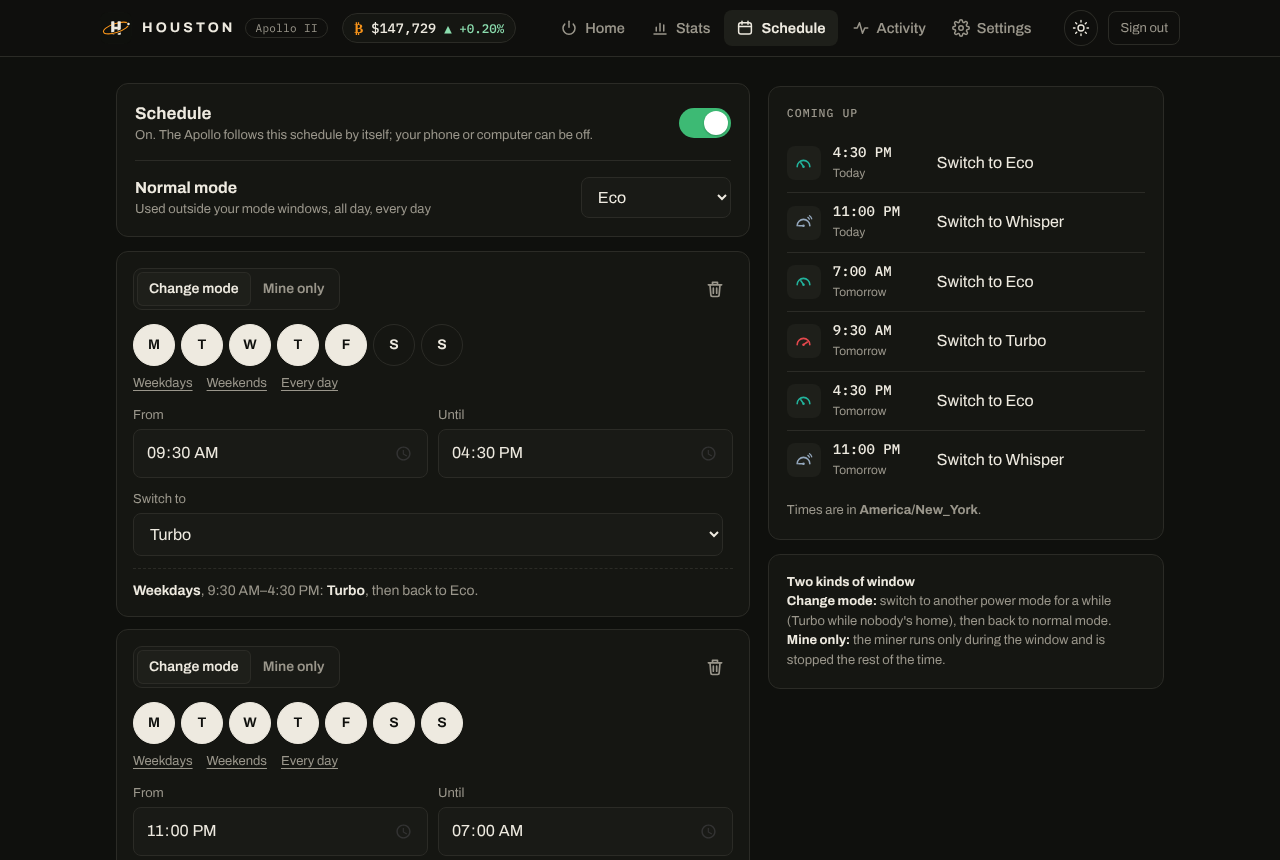
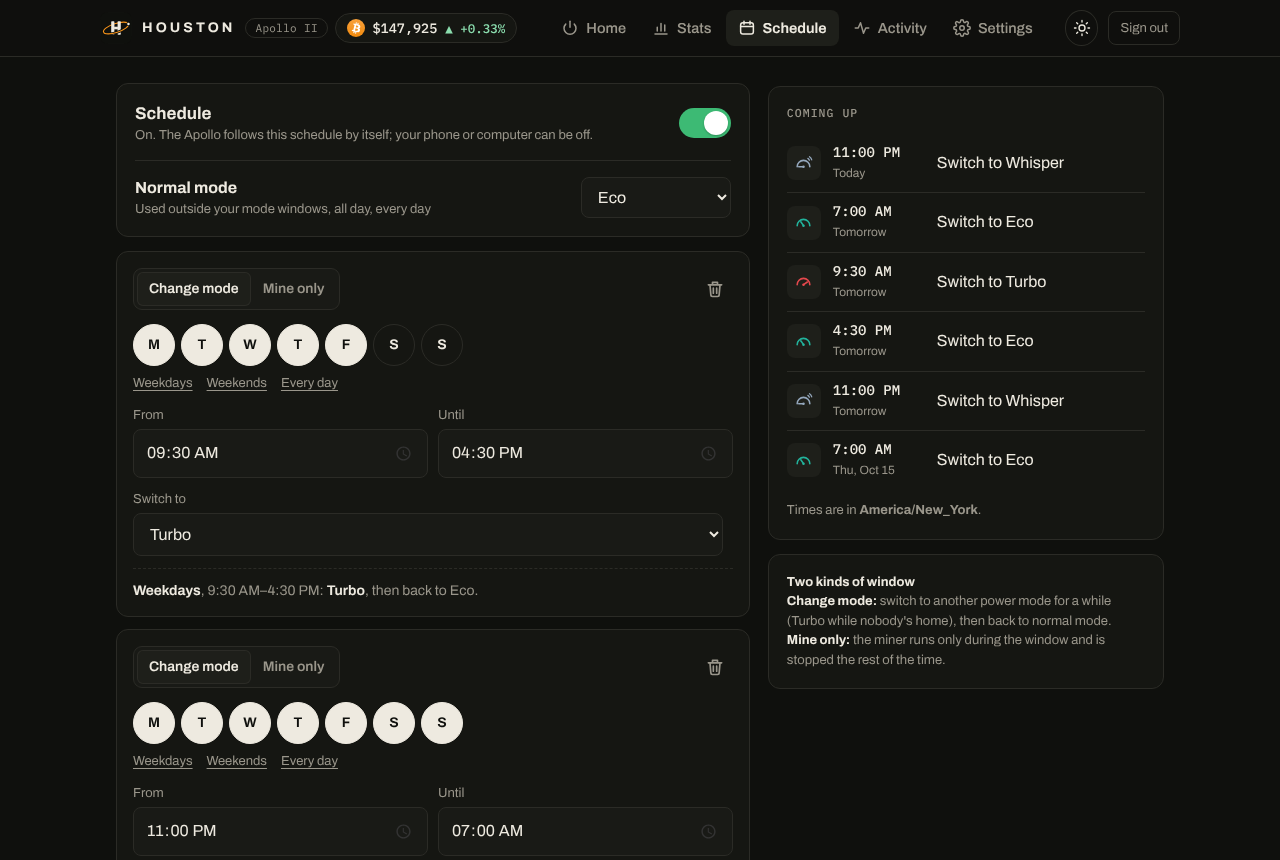
Home: cleaner price line, Power mode above next change, Whisper 'quietest'

diff --git a/houston/web/index.html b/houston/web/index.html
@@ -308,8 +308,8 @@
   /* ---------- bitcoin ticker (the only orange in the app) ---------- */
   .ticker { position: relative; overflow: hidden; display: grid; grid-template-columns: auto 1fr; gap: 2px 16px; align-items: center;
     background: var(--card); border: 1px solid var(--line); border-radius: var(--radius); padding: 14px 18px; margin-bottom: 14px; }
-  .tk-coin { width: 42px; height: 42px; border-radius: 50%; background: var(--btc); color: #fff; display: grid; place-items: center; grid-row: span 2; }
-  .tk-coin svg { width: 26px; height: 26px; }
+  .tk-coin { width: 46px; height: 46px; grid-row: span 2; }      /* the Bitcoin mark (public domain), centered on its coin */
+  .tk-coin svg { width: 100%; height: 100%; display: block; }
   .tk-top { display: flex; align-items: baseline; gap: 10px; flex-wrap: wrap; min-width: 0; }
   .tk-label { color: var(--muted); font: 500 11.5px var(--mono); letter-spacing: .09em; text-transform: uppercase; }
   .tk-price { font-size: 34px; font-weight: 650; font-stretch: 78%; letter-spacing: -.005em; line-height: 1.05; color: var(--btc-text); font-variant-numeric: tabular-nums; }
@@ -326,7 +326,8 @@
   }
   .hdr-price { display: none; align-items: center; gap: 8px; margin-left: 12px; padding: 5px 11px; border-radius: 999px; border: 1px solid var(--line);
     background: var(--card); font: 500 13.5px var(--mono); color: var(--text); cursor: pointer; white-space: nowrap; }
-  .hdr-price .b { color: var(--btc-text); font-weight: 700; }
+  .hdr-price .b { display: inline-flex; width: 18px; height: 18px; }
+  .hdr-price .b svg { width: 100%; height: 100%; }
   .hdr-price .chg { padding: 0; background: none; font-size: 12.5px; }
   @media (min-width: 1180px) { .hdr-price.on { display: inline-flex; } }
   @media (max-width: 600px) { .tk-spark, .tk-spark svg { height: 42px; } .tk-price { font-size: 30px; } }
@@ -552,7 +553,7 @@
   <!-- ======================= control ======================= -->
   <section id="view-control" class="view hidden" role="tabpanel" aria-label="Control">
     <div class="ticker hidden" id="ticker" aria-live="polite">
-      <div class="tk-coin" aria-hidden="true"><svg viewBox="0 0 24 24" fill="currentColor"><path d="M14.4 11.3c.9-.5 1.4-1.3 1.3-2.4-.2-1.6-1.6-2.2-3.4-2.3V4.4h-1.3v2.1h-1V4.4H8.7v2.1H6.3v1.4h1c.5 0 .7.2.7.6v6.9c0 .4-.2.6-.6.6h-1l-.2 1.5h2.4v2.1H10v-2.1h1v2.1h1.3v-2.1c2.3-.1 3.9-.8 4.1-2.9.1-1.6-.6-2.5-2-2.9zM10 8h1.6c.9 0 1.8.3 1.8 1.2 0 1-.9 1.3-1.8 1.3H10V8zm2 7.3h-2v-3.2h2c1.1 0 2 .4 2 1.6 0 1.2-.9 1.6-2 1.6z"/></svg></div>
+      <div class="tk-coin" aria-hidden="true"><svg viewBox="0 0 64 64" aria-hidden="true"><defs><linearGradient id="btcG" x1="0" y1="0" x2="0" y2="1"><stop offset="0" stop-color="#F9A13A"/><stop offset="1" stop-color="#F08A0E"/></linearGradient></defs><circle cx="32" cy="32" r="32" fill="url(#btcG)"/><path d="M46.11 27.441c.636-4.258-2.606-6.547-7.039-8.074l1.438-5.768-3.512-.875-1.4 5.616c-.922-.23-1.87-.447-2.812-.662l1.41-5.653-3.509-.875-1.439 5.766c-.764-.174-1.514-.346-2.242-.527l.004-.018-4.842-1.209-.934 3.75s2.605.597 2.55.634c1.422.355 1.68 1.296 1.636 2.042l-1.638 6.571c.098.025.225.061.365.117l-.37-.092-2.297 9.205c-.174.432-.615 1.08-1.609.834.035.051-2.552-.637-2.552-.637l-1.743 4.019 4.57 1.139c.85.213 1.683.436 2.502.646l-1.453 5.835 3.507.875 1.44-5.772c.957.26 1.887.5 2.797.726L27.504 50.8l3.511.875 1.453-5.823c5.987 1.133 10.49.676 12.384-4.739 1.527-4.36-.076-6.875-3.226-8.515 2.294-.529 4.022-2.038 4.483-5.155zM38.087 38.69c-1.086 4.36-8.426 2.004-10.807 1.412l1.928-7.729c2.38.594 10.011 1.77 8.88 6.317zm1.085-11.312c-.99 3.966-7.1 1.951-9.083 1.457l1.748-7.007c1.983.494 8.05 1.416 7.335 5.55z" fill="#fff" transform="translate(1.118 0.587)"/></svg></div>
       <div class="tk-top"><span class="tk-label">Bitcoin</span><span class="live off" id="tkLive"><i></i>Live</span><span class="chg flat" id="tkChg">–</span></div>
       <div><span class="tk-price" id="tkPrice">–</span> <div class="tk-meta" id="tkMeta">&nbsp;</div></div>
       <div class="tk-chart"><div class="tk-spark" id="tkSpark"></div>
@@ -591,33 +592,33 @@
           <span><span class="sub">Apollo software</span><b id="updCardText"></b></span>
           <svg class="chev" viewBox="0 0 24 24" fill="none" stroke="currentColor" stroke-width="2.2" stroke-linecap="round" aria-hidden="true"><path d="M9 6l6 6-6 6"/></svg>
         </button>
-        <button class="next hidden" id="nextCard" type="button">
-          <svg viewBox="0 0 24 24" fill="none" stroke="currentColor" stroke-width="2" stroke-linecap="round" aria-hidden="true"><rect x="3.5" y="5" width="17" height="15" rx="3"/><path d="M3.5 10h17M8 3v4M16 3v4"/></svg>
-          <span><span class="sub" id="nextLabel">Next scheduled change</span><b id="nextText"></b></span>
-          <svg class="chev" viewBox="0 0 24 24" fill="none" stroke="currentColor" stroke-width="2.2" stroke-linecap="round" aria-hidden="true"><path d="M9 6l6 6-6 6"/></svg>
-        </button>
+        <div class="card">
+          <h2>Power mode</h2>
+          <div class="modes" id="modes"></div>
+          <div class="custom-row hidden" id="customRow">
+            <div class="custom-head">
+              <svg viewBox="0 0 24 24" fill="none" stroke="currentColor" stroke-width="2" stroke-linecap="round" aria-hidden="true"><path d="M4 6h10M18 6h2M4 12h4M12 12h8M4 18h12"/><circle cx="16" cy="6" r="2"/><circle cx="10" cy="12" r="2"/><circle cx="18" cy="18" r="2"/></svg>
+              Custom target <b id="hrVal">12 TH/s</b>
+            </div>
+            <div class="custom-ctl">
+              <input type="range" id="hrRange" min="5" max="20" step="1" value="12" aria-label="Target hashrate in TH/s">
+              <button class="primary" type="button" id="hrApply">Set</button>
+            </div>
+            <div class="sub" style="margin-top:6px">The Apollo III tunes itself to hit this hashrate (5–20 TH/s).</div>
+          </div>
+          <p class="note" style="margin:12px 0 0">Changing mode restarts a running miner (about a minute). A stopped miner stays stopped and uses the new mode when it starts.</p>
+        </div>
         <div class="card hidden" id="fleetCard">
           <h2>Your Apollos</h2>
           <ul class="fleet" id="fleetList"></ul>
         </div>
       </div>
       <div>
-      <div class="card">
-        <h2>Power mode</h2>
-        <div class="modes" id="modes"></div>
-        <div class="custom-row hidden" id="customRow">
-          <div class="custom-head">
-            <svg viewBox="0 0 24 24" fill="none" stroke="currentColor" stroke-width="2" stroke-linecap="round" aria-hidden="true"><path d="M4 6h10M18 6h2M4 12h4M12 12h8M4 18h12"/><circle cx="16" cy="6" r="2"/><circle cx="10" cy="12" r="2"/><circle cx="18" cy="18" r="2"/></svg>
-            Custom target <b id="hrVal">12 TH/s</b>
-          </div>
-          <div class="custom-ctl">
-            <input type="range" id="hrRange" min="5" max="20" step="1" value="12" aria-label="Target hashrate in TH/s">
-            <button class="primary" type="button" id="hrApply">Set</button>
-          </div>
-          <div class="sub" style="margin-top:6px">The Apollo III tunes itself to hit this hashrate (5–20 TH/s).</div>
-        </div>
-        <p class="note" style="margin:12px 0 0">Changing mode restarts a running miner (about a minute). A stopped miner stays stopped and uses the new mode when it starts.</p>
-      </div>
+      <button class="next hidden" id="nextCard" type="button">
+        <svg viewBox="0 0 24 24" fill="none" stroke="currentColor" stroke-width="2" stroke-linecap="round" aria-hidden="true"><rect x="3.5" y="5" width="17" height="15" rx="3"/><path d="M3.5 10h17M8 3v4M16 3v4"/></svg>
+        <span><span class="sub" id="nextLabel">Next scheduled change</span><b id="nextText"></b></span>
+        <svg class="chev" viewBox="0 0 24 24" fill="none" stroke="currentColor" stroke-width="2.2" stroke-linecap="round" aria-hidden="true"><path d="M9 6l6 6-6 6"/></svg>
+      </button>
       <div class="card hidden" id="nodeCard">
         <h2>Bitcoin node</h2>
         <div id="nodeNoDrive" class="note hidden">This Apollo has no drive for the blockchain, so it doesn't run a node.</div>

diff --git a/houston/web/app.js b/houston/web/app.js
@@ -29,11 +29,12 @@
     node: '<svg viewBox="0 0 24 24" fill="none" stroke="currentColor" stroke-width="2" stroke-linecap="round" stroke-linejoin="round" aria-hidden="true"><ellipse cx="12" cy="6" rx="7.5" ry="3"/><path d="M4.5 6v6c0 1.7 3.4 3 7.5 3s7.5-1.3 7.5-3V6M4.5 12v6c0 1.7 3.4 3 7.5 3s7.5-1.3 7.5-3v-6"/></svg>',
     update: '<svg viewBox="0 0 24 24" fill="none" stroke="currentColor" stroke-width="2" stroke-linecap="round" stroke-linejoin="round" aria-hidden="true"><circle cx="12" cy="12" r="9"/><path d="M12 16.5v-9M8 11l4-4 4 4"/></svg>',
     light: '<svg viewBox="0 0 24 24" fill="none" stroke="currentColor" stroke-width="2" stroke-linecap="round" stroke-linejoin="round" aria-hidden="true"><path d="M9 18h6M10 21h4"/><path d="M12 3a6 6 0 0 0-3.6 10.8c.6.5 1 1.2 1.1 2.2h5c.1-1 .5-1.7 1.1-2.2A6 6 0 0 0 12 3z"/></svg>',
+    btc: '<svg viewBox="0 0 64 64" aria-hidden="true"><defs><linearGradient id="btcH" x1="0" y1="0" x2="0" y2="1"><stop offset="0" stop-color="#F9A13A"/><stop offset="1" stop-color="#F08A0E"/></linearGradient></defs><circle cx="32" cy="32" r="32" fill="url(#btcH)"/><path d="M46.11 27.441c.636-4.258-2.606-6.547-7.039-8.074l1.438-5.768-3.512-.875-1.4 5.616c-.922-.23-1.87-.447-2.812-.662l1.41-5.653-3.509-.875-1.439 5.766c-.764-.174-1.514-.346-2.242-.527l.004-.018-4.842-1.209-.934 3.75s2.605.597 2.55.634c1.422.355 1.68 1.296 1.636 2.042l-1.638 6.571c.098.025.225.061.365.117l-.37-.092-2.297 9.205c-.174.432-.615 1.08-1.609.834.035.051-2.552-.637-2.552-.637l-1.743 4.019 4.57 1.139c.85.213 1.683.436 2.502.646l-1.453 5.835 3.507.875 1.44-5.772c.957.26 1.887.5 2.797.726L27.504 50.8l3.511.875 1.453-5.823c5.987 1.133 10.49.676 12.384-4.739 1.527-4.36-.076-6.875-3.226-8.515 2.294-.529 4.022-2.038 4.483-5.155zM38.087 38.69c-1.086 4.36-8.426 2.004-10.807 1.412l1.928-7.729c2.38.594 10.011 1.77 8.88 6.317zm1.085-11.312c-.99 3.966-7.1 1.951-9.083 1.457l1.748-7.007c1.983.494 8.05 1.416 7.335 5.55z" fill="#fff" transform="translate(1.118 0.587)"/></svg>',
     trash: '<svg viewBox="0 0 24 24" fill="none" stroke="currentColor" stroke-width="2" stroke-linecap="round" stroke-linejoin="round" aria-hidden="true"><path d="M4 7h16M10 11v6M14 11v6M6 7l1 12a2 2 0 0 0 2 2h6a2 2 0 0 0 2-2l1-12M9 7V4h6v3"/></svg>'
   };
   const MODE_INFO = {
     super_eco: { name: 'Super Eco', hint: 'lowest power' },
-    whisper: { name: 'Whisper', hint: 'half of Eco' },
+    whisper: { name: 'Whisper', hint: 'quietest' },
     eco: { name: 'Eco', hint: 'quietest' },
     balanced: { name: 'Balanced', hint: 'middle' },
     turbo: { name: 'Turbo', hint: 'fastest, loud' }
@@ -1419,13 +1420,14 @@
     $('tkLive').classList.toggle('off', ageSec > 30);
     $('tkLive').lastChild.textContent = ageSec > 30 ? 'Delayed' : 'Live';
     const lohi = ys.length > 1 ? priceRange + ' low ' + fmtFiat(Math.min(...ys), price.fiat) + ' · high ' + fmtFiat(Math.max(...ys), price.fiat) + ' · ' : '';
-    $('tkMeta').textContent = lohi + price.source + ', ' + (ageSec < 60 ? 'just now' : Math.round(ageSec / 60) + ' min ago') + (price.error && ageSec > 300 ? ' (can\'t update right now)' : '')
-      + (price.rangeError && ys.length < 2 ? ' · no ' + priceRange + ' history right now' : '');
+    $('tkMeta').textContent = (lohi ? lohi.replace(/ · $/, '') : '') + (ageSec > 300 ? (lohi ? ' · ' : '') + 'last update ' + Math.round(ageSec / 60) + ' min ago' : '')
+      + (price.rangeError && ys.length < 2 ? ' · no ' + priceRange + ' history right now' : '') || '\u00a0';
+    $('tkMeta').title = 'From ' + price.source;
     setSeg($('tkRange'), 'r', priceRange);
     sparkline($('tkSpark'), list, (ch || 0) >= 0);
     const hp = $('hdrPrice'); hp.textContent = '';
     const chg = el('span', {}); chgPill(chg, price.change24);
-    hp.append(el('span', { class: 'b' }, '₿'), fmtFiat(price.price, price.fiat), chg);
+    hp.append(el('span', { class: 'b', html: ICON.btc }), fmtFiat(price.price, price.fiat), chg);
     hp.setAttribute('aria-label', 'Bitcoin ' + fmtFiat(price.price, price.fiat) + ', open price chart');
   }
   $('hdrPrice').addEventListener('click', () => go('stats'));
